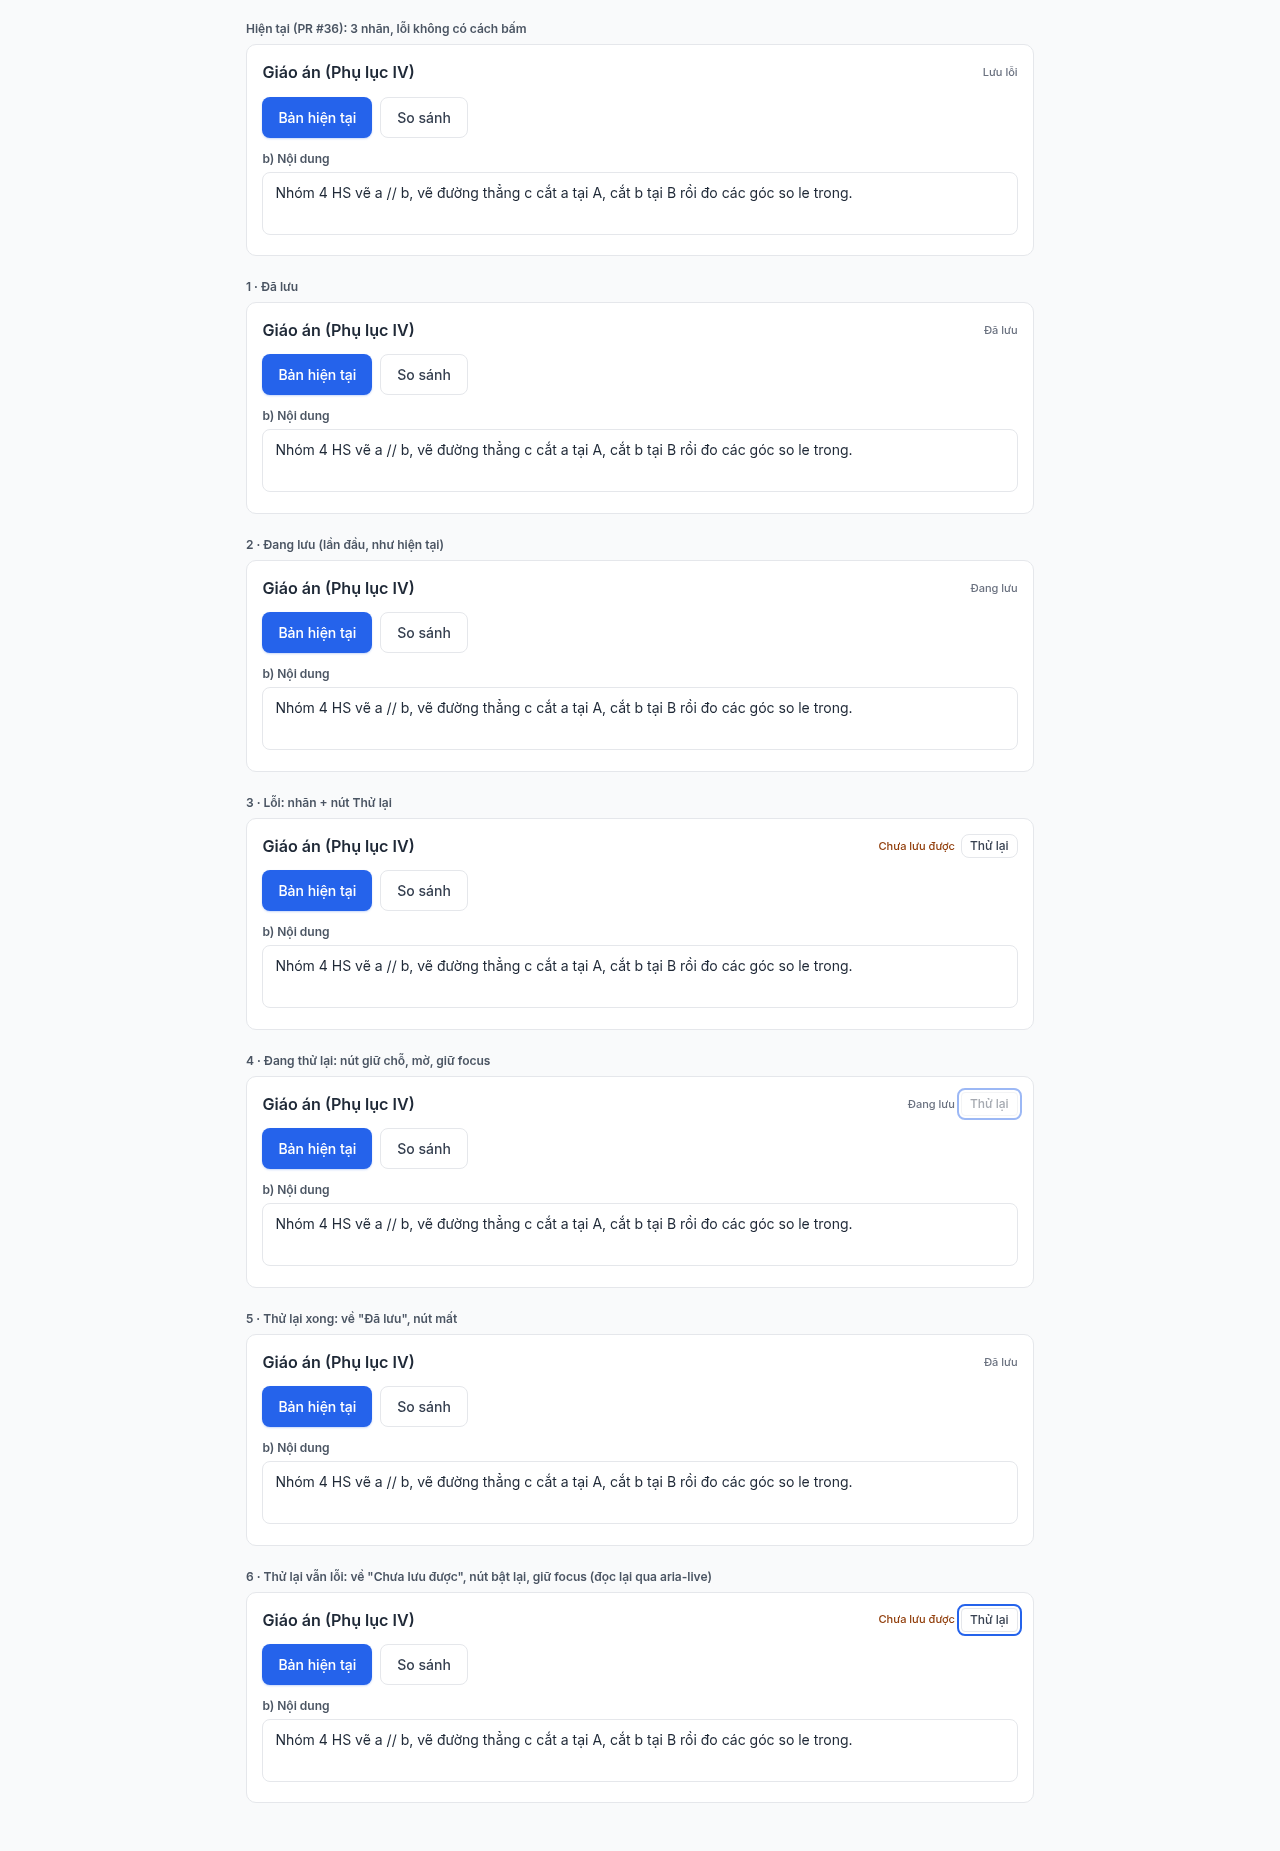
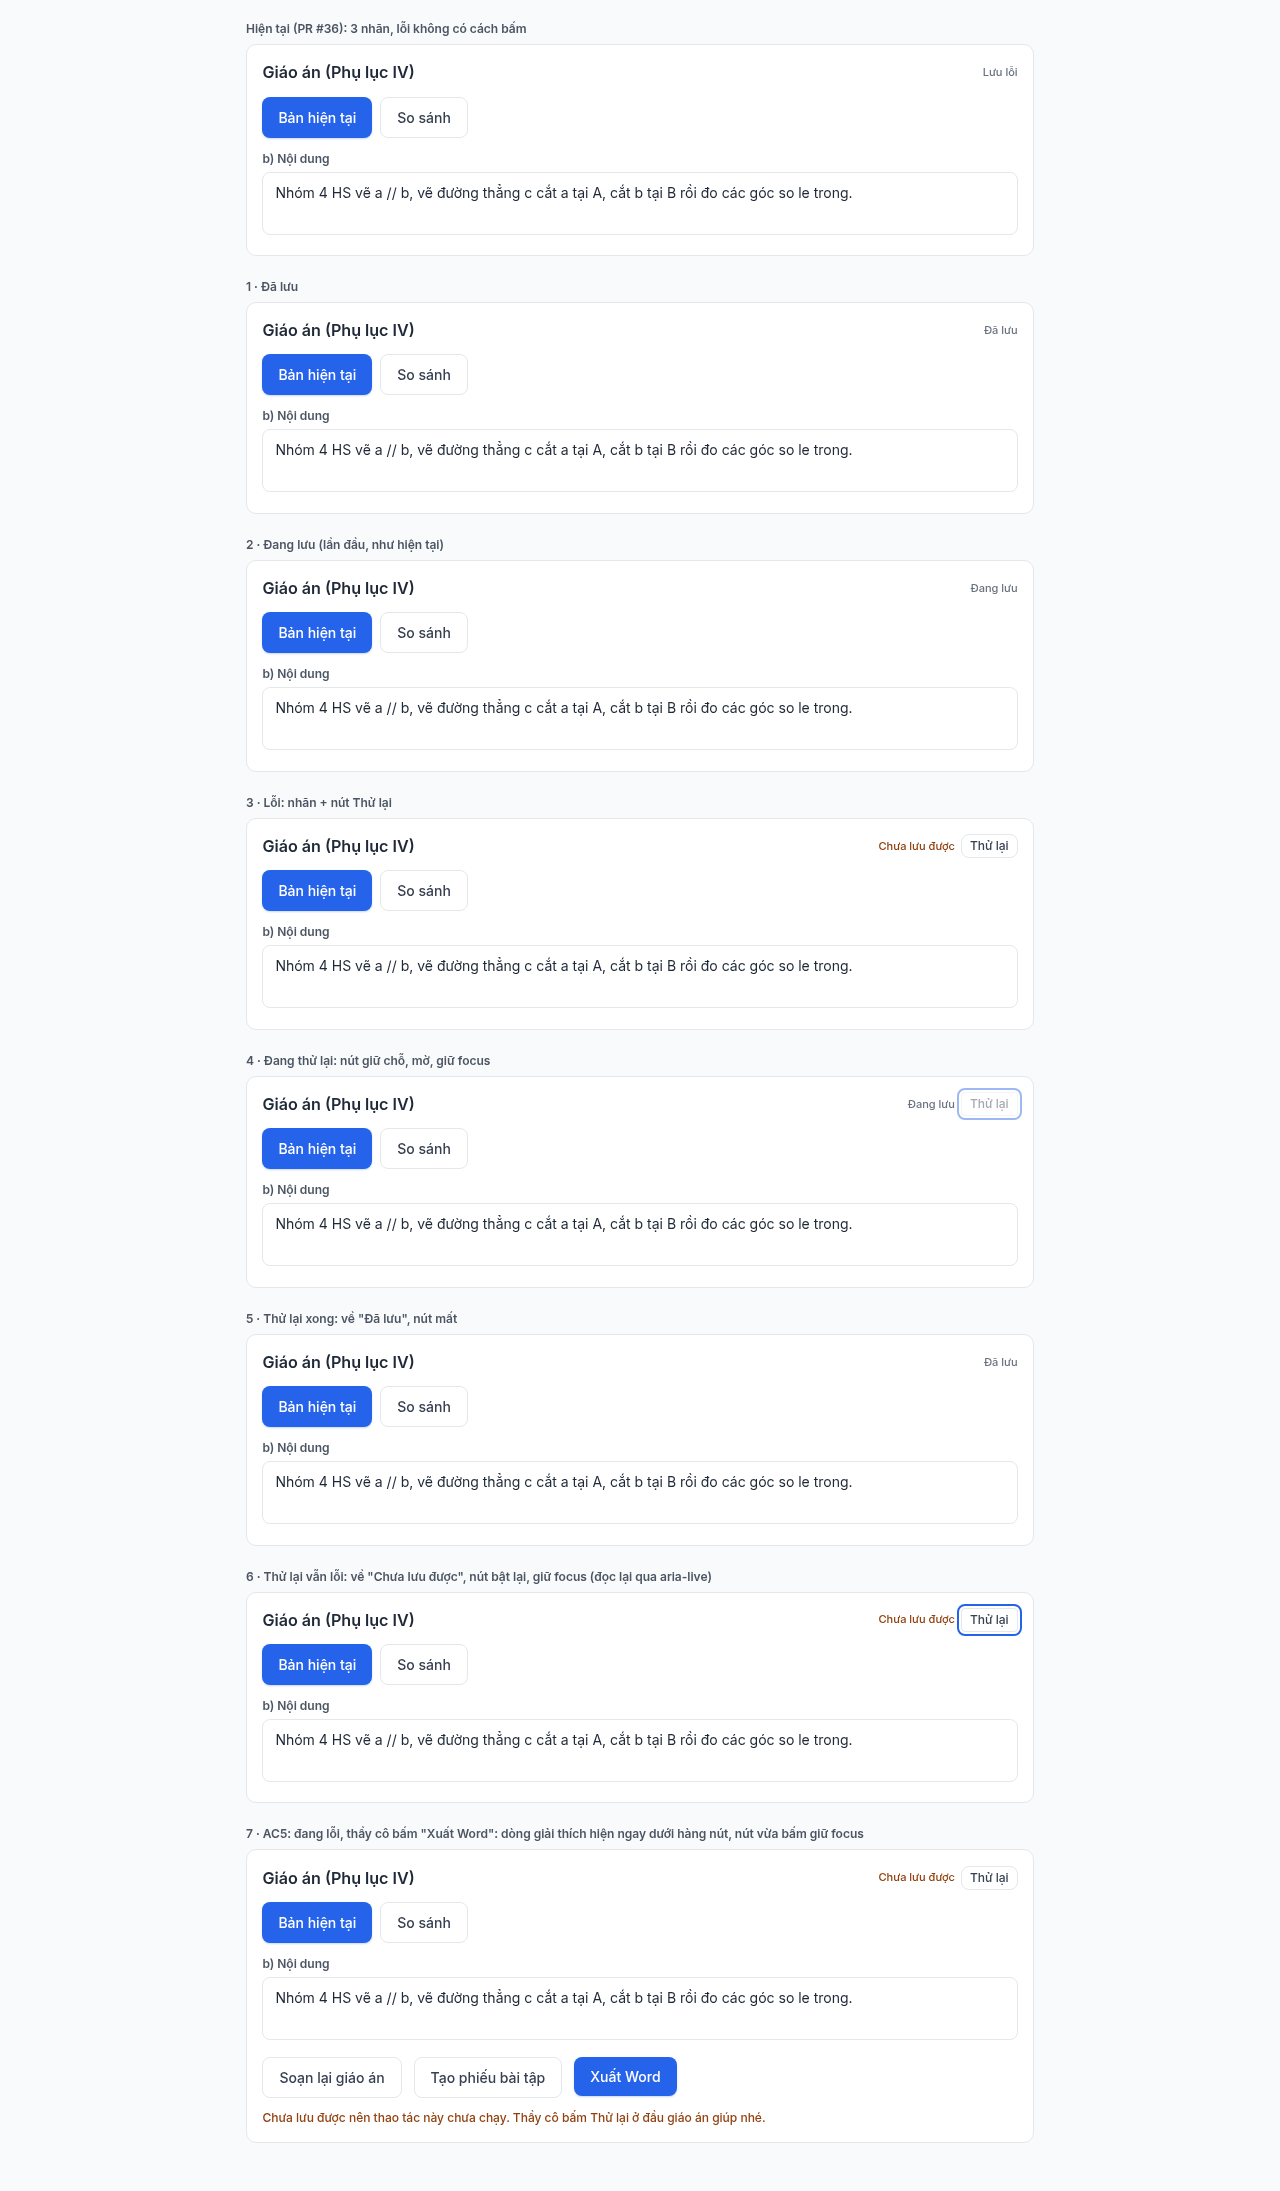
retry mockup: BA corrected AC3-AC6, AC5 blocked-action line

diff --git a/retry/index.html b/retry/index.html
@@ -49,6 +49,14 @@ body{margin:0;font-family:Inter,system-ui,sans-serif;background:var(--g50);color
 .save-retry:focus-visible,.save-retry.is-focus{outline:2px solid #2563eb;outline-offset:2px;border-radius:4px}
 .sr-only{position:absolute;width:1px;height:1px;overflow:hidden;clip:rect(0,0,0,0);white-space:nowrap}
 
+/* ===== AC5: line under the action row when a save error blocked Xuất / Soạn lại / Tạo phiếu =====
+   same style as .rv-ackfail (review-note.css): 12px / 500 / #92400e. Always in the DOM (aria-live=polite); empty = visually hidden, no layout cost */
+.acts{margin-top:12px;display:flex;flex-wrap:wrap;align-items:flex-start;gap:12px}
+.act-fail{flex-basis:100%;margin:0;font-size:12px;font-weight:500;line-height:1.4;color:#92400e}
+.act-fail:empty{position:absolute;width:1px;height:1px;overflow:hidden;clip:rect(0,0,0,0)}
+.btn:focus{outline:none}
+.btn:focus-visible{outline:2px solid #2563eb;outline-offset:2px;border-radius:4px}
+
 /* ===== mockup-only annotation (not part of the app) ===== */
 .board{display:grid;gap:22px}
 .cap{margin:0 0 6px;font-size:12px;font-weight:600;color:var(--g600)}
@@ -76,10 +84,18 @@ function slotHTML(v,opt){
   return '<span class="save-label'+(v.status==='error'?' is-error':'')+'" aria-live="polite">'+labelOf(v)+'</span>'+
     (showBtn?'<button type="button" class="btn btn-secondary save-retry'+(opt.focus?' is-focus':'')+'"'+(busy?' aria-disabled="true" aria-busy="true"':'')+'>Thử lại</button>':'');
 }
+var BLOCKED='Chưa lưu được nên thao tác này chưa chạy. Thầy cô bấm Thử lại ở đầu giáo án giúp nhé.';
+function actsHTML(opt){
+  return '<div class="acts" id="acts"><button type="button" class="btn btn-secondary" data-act="revise"'+(opt.clicked==='revise'?' data-clicked aria-describedby="actfail"':'')+'>Soạn lại giáo án</button>'+
+   '<button type="button" class="btn btn-outline" data-act="ws"'+(opt.clicked==='ws'?' data-clicked aria-describedby="actfail"':'')+'>Tạo phiếu bài tập</button>'+
+   '<button type="button" class="btn btn-default" data-act="export"'+(opt.clicked==='export'?' data-clicked aria-describedby="actfail"':'')+'>Xuất Word</button>'+
+   '<p class="act-fail" id="actfail" aria-live="polite">'+(opt.blocked?BLOCKED:'')+'</p></div>';
+}
 function cardHTML(v,opt){
+  opt=opt||{};
   return '<section class="card"><div class="hd"><h2 class="card-title">Giáo án (Phụ lục IV)</h2><div class="save-slot">'+slotHTML(v,opt)+'</div></div>'+
    '<div class="tabs"><button type="button" class="btn btn-default">Bản hiện tại</button><button type="button" class="btn btn-outline">So sánh</button></div>'+
-   '<label class="fld-l">b) Nội dung</label><textarea class="ta" rows="2" aria-label="Nội dung">'+SAMPLE+'</textarea></section>';
+   '<label class="fld-l">b) Nội dung</label><textarea class="ta" rows="2" aria-label="Nội dung">'+(opt.text||SAMPLE)+'</textarea>'+(opt.actions?actsHTML(opt):'')+'</section>';
 }
 var STATES=[
  ['now','Hiện tại (PR #36): 3 nhãn, lỗi không có cách bấm',{status:'error',streak:1},{old:true}],
@@ -89,6 +105,7 @@ var STATES=[
  ['retrying','4 · Đang thử lại: nút giữ chỗ, mờ, giữ focus',{status:'saving',streak:1},{focus:true}],
  ['success','5 · Thử lại xong: về "Đã lưu", nút mất',{status:'saved',streak:0}],
  ['again','6 · Thử lại vẫn lỗi: về "Chưa lưu được", nút bật lại, giữ focus (đọc lại qua aria-live)',{status:'error',streak:2},{focus:true}]
+ ,['blocked','7 · AC5: đang lỗi, thầy cô bấm "Xuất Word": dòng giải thích hiện ngay dưới hàng nút, nút vừa bấm giữ focus',{status:'error',streak:1},{actions:true,blocked:true,clicked:'export',keepOut:true}]
 ];
 var board=document.getElementById('board');
 STATES.forEach(function(s){
@@ -103,18 +120,22 @@ STATES.forEach(function(s){
 if(/[?&]live=1/.test(location.search)){
   var d=document.createElement('div'); d.className='demo';
   d.innerHTML='<p class="cap"><b>Demo bấm thử</b> <i>(mô phỏng; không thuộc giao diện)</i></p><div id="live"></div>'+
-   '<p><label><input type="checkbox" id="fail" checked> Mạng đang lỗi</label> <button type="button" class="btn btn-outline" id="typeBtn">Gõ thêm một ký tự</button> <button type="button" class="btn btn-outline" id="log">Nhật ký aria-live</button></p><pre id="out" style="font-size:12px;margin:0"></pre>';
+   '<p><label><input type="checkbox" id="fail" checked> Mạng đang lỗi</label> <span id="cnt">PUT: 0</span> <button type="button" class="btn btn-outline" id="typeBtn">Gõ thêm một ký tự</button> <button type="button" class="btn btn-outline" id="log">Nhật ký aria-live</button></p><pre id="out" style="font-size:12px;margin:0"></pre>';
   board.appendChild(d);
-  var st={status:'saved',streak:0}, live=document.getElementById('live'), out=document.getElementById('out');
+  var st={status:'saved',streak:0}, puts=0, blocked=null, live=document.getElementById('live'), out=document.getElementById('out');
   function paint(keepFocus){
     var hadFocus=document.activeElement&&document.activeElement.classList&&document.activeElement.classList.contains('save-retry');
-    live.innerHTML=cardHTML(st);
+    var ta0=live.querySelector('textarea'), keep=ta0?ta0.value:undefined;
+    live.innerHTML=cardHTML(st,{actions:true,text:keep,blocked:!!blocked&&st.status==='error',clicked:blocked});
     var b=live.querySelector('.save-retry'); if(b){ b.addEventListener('click',onRetry); if(hadFocus) b.focus(); }
     live.querySelector('textarea').addEventListener('input',onEdit);
+    live.querySelectorAll('[data-act]').forEach(function(x){ x.addEventListener('click',function(){ onAct(x.dataset.act); }); });
+    document.getElementById('cnt').textContent='PUT: '+puts;
   }
   function say(t){ out.textContent+=t+'\n'; }
+  function onAct(a){ if(st.status==='error'){ blocked=a; paint(); var x=live.querySelector('[data-act='+a+']'); if(x) x.focus(); say('aria-live: '+BLOCKED); } }
   function run(viaRetry,kbd){
-    st={status:'saving',streak:st.streak}; paint();
+    puts++; blocked=null; st={status:'saving',streak:st.streak}; paint();
     setTimeout(function(){ /* min 600ms on retry so the teacher sees something happened */
       var ok=!document.getElementById('fail').checked;
       st=ok?{status:'saved',streak:0}:{status:'error',streak:st.streak+1};
